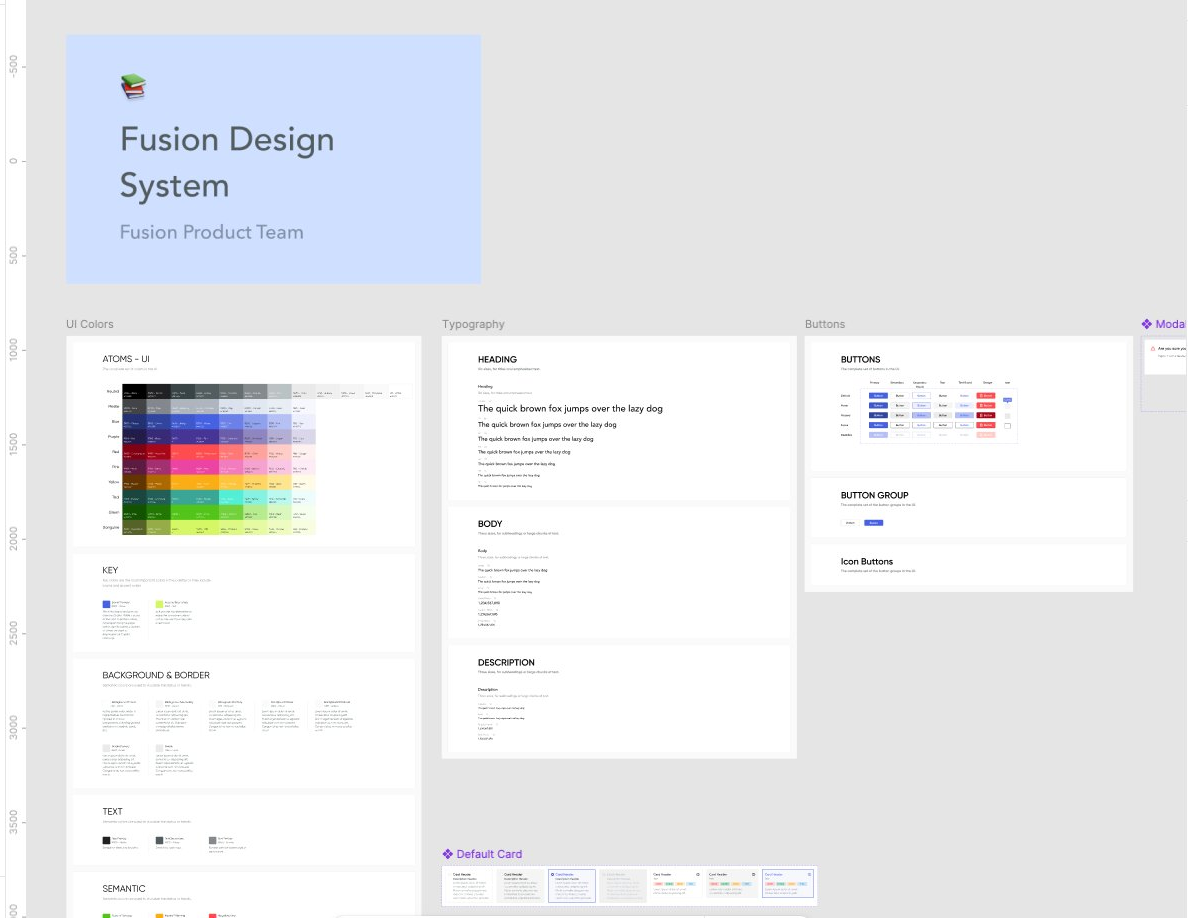
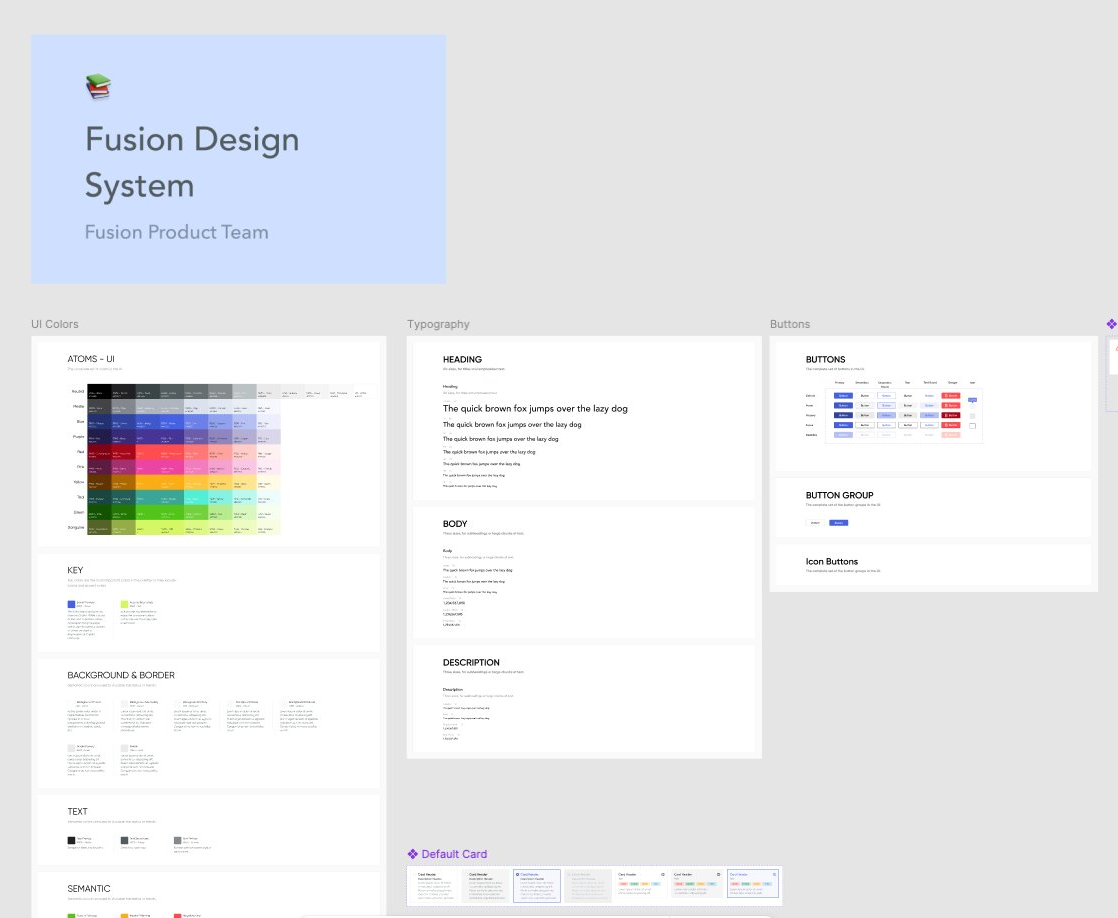
Clean up Design System hero image and unify card backgrounds
- Crop design-system-hero.png to remove Figma ruler coordinates on
  the left edge that were reading as a screenshot mistake (1188→1118
  wide). Title slide, UI Colors, Typography, Buttons all intact.
- Replace hard-coded grid-visual backgrounds (#E8EDE8, #EDF2EE,
  #EAE8E0) with var(--hero-bg) for visual consistency. Beckett
  retains its dark background for the dark-UI mock.

diff --git a/index.html b/index.html
@@ -89,7 +89,7 @@
 
         <!-- Fusion Insights -->
         <a href="work/insights.html" class="grid-card">
-          <div class="grid-visual" style="background:#E8EDE8">
+          <div class="grid-visual" style="background:var(--hero-bg)">
             <img src="assets/insights-hero.png" alt="Fusion Insights" style="width:100%;height:100%;object-fit:cover;object-position:center top">
           </div>
           <div class="grid-info">
@@ -108,7 +108,7 @@
 
         <!-- Flow & RFI Builder -->
         <a href="work/flow.html" class="grid-card">
-          <div class="grid-visual" style="background:#EDF2EE;position:relative;overflow:hidden">
+          <div class="grid-visual" style="background:var(--hero-bg);position:relative;overflow:hidden">
             <div style="position:absolute;inset:20px">
               <div style="display:flex;gap:6px;align-items:center;margin-bottom:11px">
                 <div style="width:20px;height:20px;border-radius:50%;background:var(--accent);display:flex;align-items:center;justify-content:center;font-size:9px;color:#fff;font-weight:500;flex-shrink:0">1</div>
@@ -145,7 +145,7 @@
 
         <!-- Fusion Design System -->
         <a href="work/design-system.html" class="grid-card">
-          <div class="grid-visual" style="background:#EAE8E0">
+          <div class="grid-visual" style="background:var(--hero-bg)">
             <img src="assets/design-system-hero.png" alt="Fusion Design System" style="width:100%;height:100%;object-fit:cover;object-position:center top">
           </div>
           <div class="grid-info">